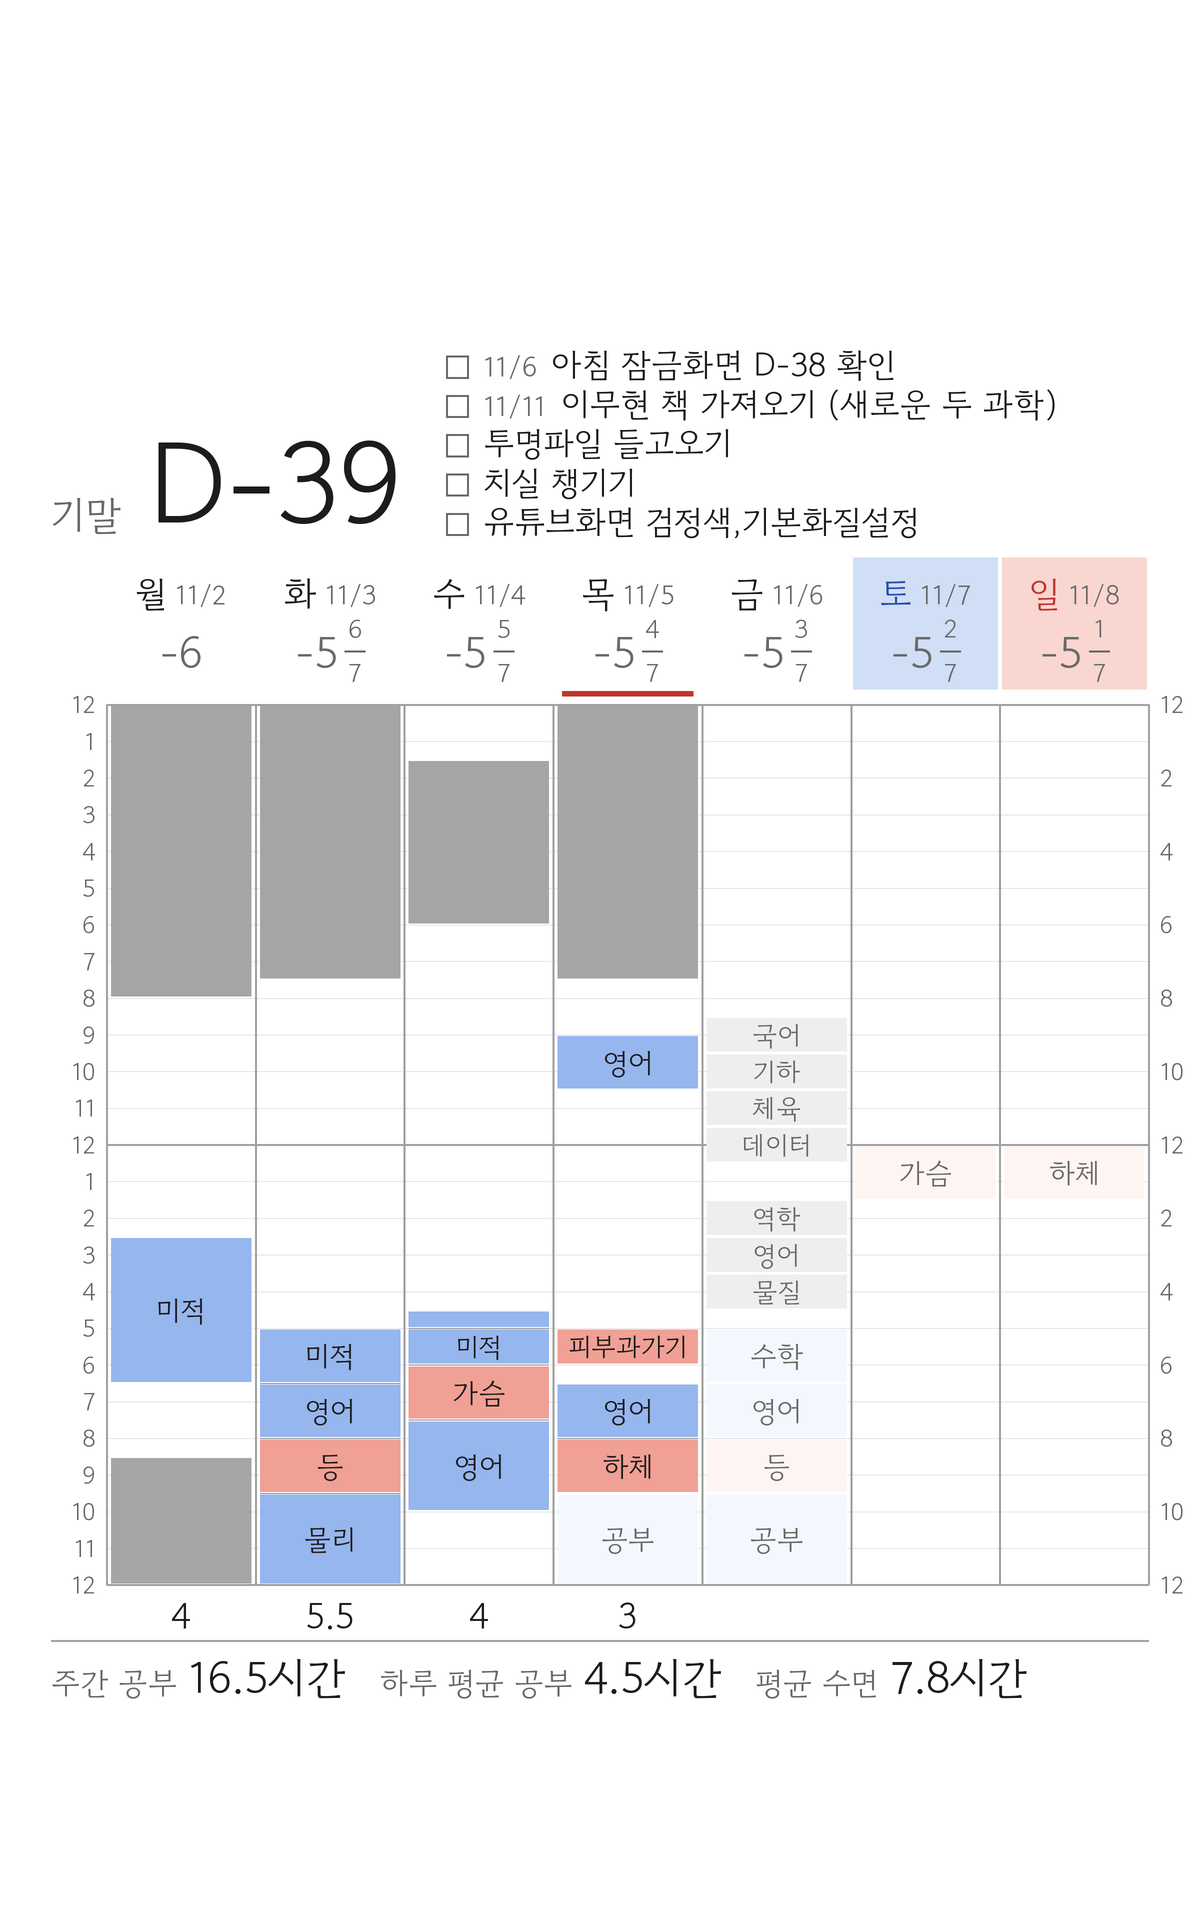
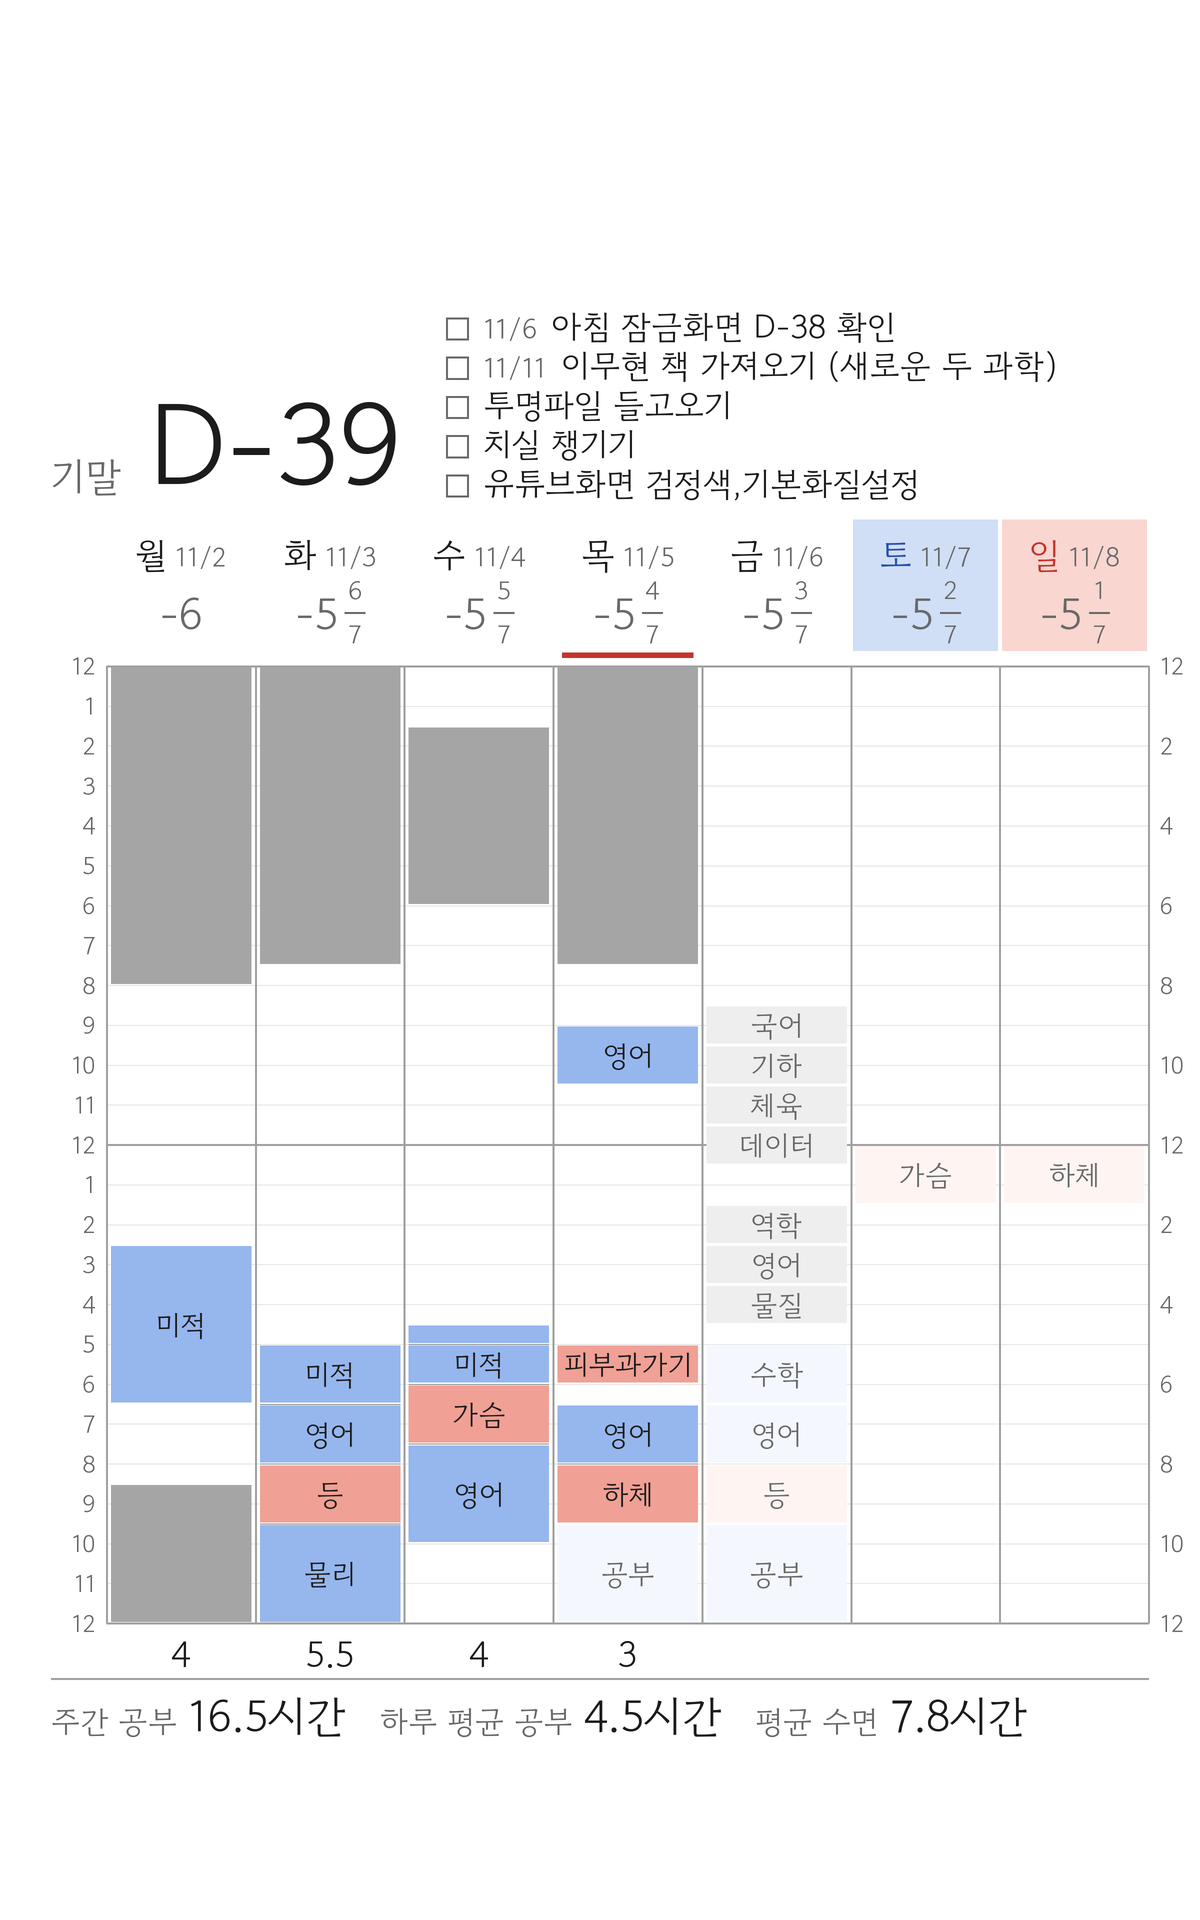
태블릿 잠금화면 위아래 여백을 더 줄여 꽉 차게
Claude-Session: https://claude.ai/code/session_016sgH3TiDNtMfBDqEdhxfRP

diff --git a/make.py b/make.py
@@ -305,4 +305,4 @@ if __name__ == "__main__":
     draw(data, today, 1080, 2340, os.path.join(base, f"phone{sfx}.png"), todo_scale=1.2,
          top_empty=0.28, bottom_empty=0.10)  # 폰만 위아래 여백을 줄여 세로로 늘림
     draw(data, today, 1200, 1920, os.path.join(base, f"tablet{sfx}.png"),
-         top_empty=0.22, bottom_empty=0.09)  # 태블릿도 위아래 여백을 줄여 세로로 늘림
+         top_empty=0.20, bottom_empty=0.07)  # 태블릿도 위아래 여백을 줄여 세로로 늘림
